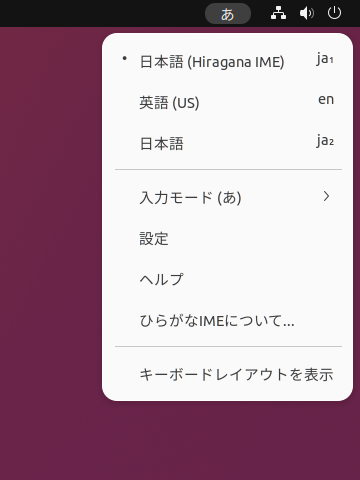
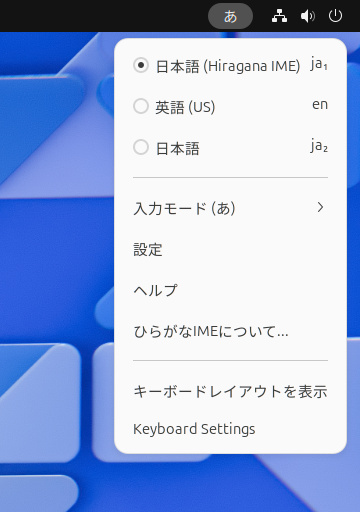
Update documents and screenshots
docs/Makefile.am
docs/input-modes.gif
docs/keyboard-menu.png
docs/usage.html
docs/usage.md

diff --git a/docs/usage.html b/docs/usage.html
@@ -143,11 +143,13 @@ function shrinkToc() {
 </tr>
 </tbody>
 </table>
-<p><img alt="入力モード" src="input-mode.png"></p>
-<p>&#x3000;<ruby>現在<rp>(</rp><rt>げんざい</rt><rp>)</rp></ruby>の<ruby>入力<rp>(</rp><rt>にゅうりょく</rt><rp>)</rp></ruby>モードは、<ruby>画面<rp>(</rp><rt>がめん</rt><rp>)</rp></ruby>のトップバーの<ruby>右<rp>(</rp><rt>みぎ</rt><rp>)</rp></ruby>すみに<ruby>表示<rp>(</rp><rt>ひょうじ</rt><rp>)</rp></ruby>されています。ふだんよくつかうのは、「ひらがなモード」と「<ruby>英<rp>(</rp><rt>えい</rt><rp>)</rp></ruby><ruby>数<rp>(</rp><rt>すう</rt><rp>)</rp></ruby>モード」です。そのほかのモードは、めったにつかいません。</p>
+<p><br></p>
+<p>&#x3000;<ruby>現在<rp>(</rp><rt>げんざい</rt><rp>)</rp></ruby>の<ruby>入力<rp>(</rp><rt>にゅうりょく</rt><rp>)</rp></ruby>モードは、<ruby>画面<rp>(</rp><rt>がめん</rt><rp>)</rp></ruby>のトップバーの<ruby>右<rp>(</rp><rt>みぎ</rt><rp>)</rp></ruby>すみに<ruby>表示<rp>(</rp><rt>ひょうじ</rt><rp>)</rp></ruby>されています。</p>
+<p><img alt="入力モード" src="input-modes.gif"></p>
+<p>&#x3000;ふだんよくつかう<ruby>入力<rp>(</rp><rt>にゅうりょく</rt><rp>)</rp></ruby>モードは、「ひらがなモード」と「<ruby>英<rp>(</rp><rt>えい</rt><rp>)</rp></ruby><ruby>数<rp>(</rp><rt>すう</rt><rp>)</rp></ruby>モード」です。そのほかのモードをつかうことは、ほとんどありません。</p>
 <ul>
 <li><ruby>日本語<rp>(</rp><rt>にほんご</rt><rp>)</rp></ruby>キーボードでは、<span class='key'>変換</span>キーをおすと「ひらがなモード」に、<span class='key'>無変換</span>キーをおすと「<ruby>英数<rp>(</rp><rt>えいすう</rt><rp>)</rp></ruby>モード」に<ruby>変更<rp>(</rp><rt>へんこう</rt><rp>)</rp></ruby>できます。</li>
-<li><ruby>英語<rp>(</rp><rt>えいご</rt><rp>)</rp></ruby>キーボードでは、<span class='key'>Caps Lock</span>をオンにすると「ひらがなモード」に、オフにすると「<ruby>英数<rp>(</rp><rt>えいすう</rt><rp>)</rp></ruby>モード」になります。</li>
+<li><ruby>英語<rp>(</rp><rt>えいご</rt><rp>)</rp></ruby>キーボードでは、<span class='key'>Caps Lock</span>をオンにすると「ひらがなモード」に、オフにすると「<ruby>英数<rp>(</rp><rt>えいすう</rt><rp>)</rp></ruby>モード」にできます。</li>
 </ul>
 <h2 id="input-kanji"><ruby>漢字<rp>(</rp><rt>かんじ</rt><rp>)</rp></ruby>やカタカナの<ruby>単語<rp>(</rp><rt>たんご</rt><rp>)</rp></ruby>の<ruby>入力<rp>(</rp><rt>にゅうりょく</rt><rp>)</rp></ruby></h2>
 <p>&#x3000;<ruby>漢字<rp>(</rp><rt>かんじ</rt><rp>)</rp></ruby>やカタカナの<ruby>単語<rp>(</rp><rt>たんご</rt><rp>)</rp></ruby>も、まずはひらがなで<ruby>入力<rp>(</rp><rt>にゅうりょく</rt><rp>)</rp></ruby>します。つぎに、その<ruby>単語<rp>(</rp><rt>たんご</rt><rp>)</rp></ruby>のまうしろにカーソルがあるときに<span class='key'>変換</span>キーをおします。そうすると、<ruby>単語<rp>(</rp><rt>たんご</rt><rp>)</rp></ruby>を<ruby>漢字<rp>(</rp><rt>かんじ</rt><rp>)</rp></ruby>やカタカナに<ruby>変換<rp>(</rp><rt>へんかん</rt><rp>)</rp></ruby>できます。</p>
